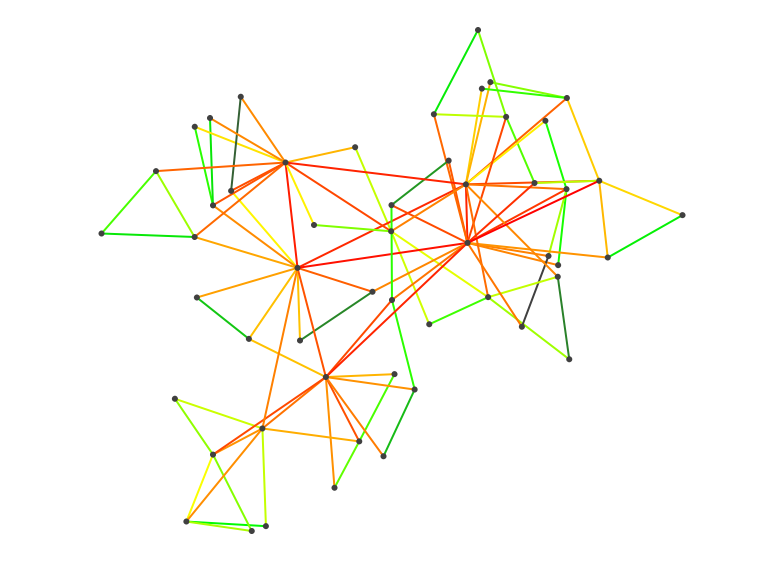
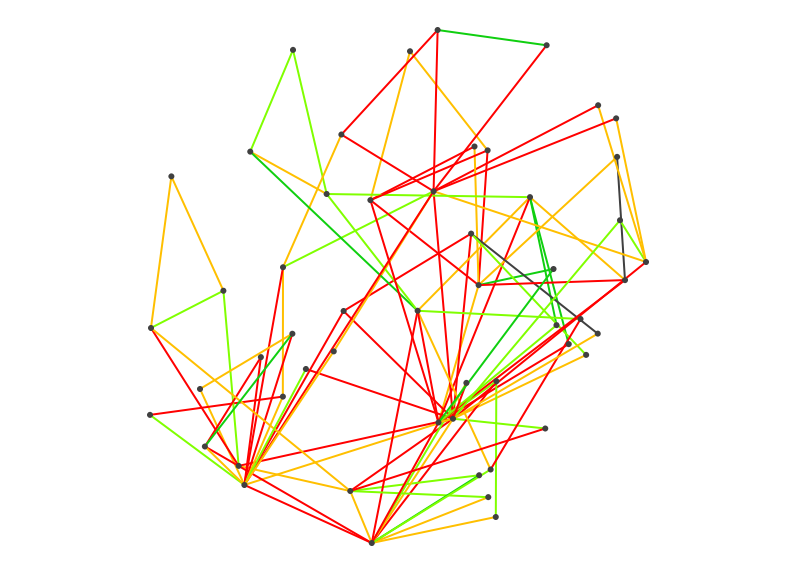
refactor

Changed region(s): [[0.1224, 0.0303, 0.8878, 0.9697]]

diff --git a/src/main/java/ReseauSocial.java b/src/main/java/ReseauSocial.java
@@ -1,20 +1,37 @@
-import com.sun.corba.se.impl.orbutil.graph.Graph;
 import org.graphstream.algorithm.generator.DorogovtsevMendesGenerator;
 import org.graphstream.algorithm.generator.Generator;
 import org.graphstream.algorithm.randomWalk.RandomWalk;
 import org.graphstream.graph.Edge;
 import org.graphstream.graph.implementations.MultiGraph;
 
-public class GeneGraph{
-    public static void testRandomWalk() {
-        MultiGraph graph = new MultiGraph("random walk");
-        Generator gen   = new DorogovtsevMendesGenerator();
-        RandomWalk rwalk = new RandomWalk();
+public class ReseauSocial {
 
-        // On génère 400 noeuds
+    private MultiGraph graph;
+    private Generator gen;
+    private RandomWalk rwalk;
+    private static int nbNoeuds = 50;
+    protected static String styleSheet =
+            "edge {"+
+                "	size: 2px;"+
+                "	fill-color: red, yellow, green, #444;"+
+                "	fill-mode: dyn-plain;"+
+                "}"+
+            "node {"+
+                "	size: 6px;"+
+                "	fill-color: #444;"+
+            "}";
+
+    public ReseauSocial(MultiGraph graph, Generator gen, RandomWalk rwalk) {
+        this.graph = graph;
+        this.gen = gen;
+        this.rwalk = rwalk;
+    }
+
+    public void init() {
+        // On génère n noeuds
         gen.addSink(graph);
         gen.begin();
-        for(int i=0; i<50; i++) {
+        for(int i=0; i<nbNoeuds; i++) {
             gen.nextEvents();
         }
         gen.end();
@@ -23,33 +40,19 @@ public class GeneGraph{
         graph.addAttribute("ui.antialias");
         graph.display();
 
-        // We configure the random walk to use twice as
-        // much entities as nodes in the graph. To use
-        // a small evaporation on the number of passes
-        // per element and a last visited edge list of
-        // 40 elements.
+        //random edges using rwalk object
         rwalk.setEntityCount(graph.getNodeCount()*2);
         rwalk.setEvaporation(0.97);
         rwalk.setEntityMemory(40);
         rwalk.init(graph);
-
-        // Compute the walks for 3000 steps only as an
-        // example, but the test could run forever with
-        // a dynamic graph if needed.
-        for(int i=0; i<3000; i++) {
-            rwalk.compute();
-        }
+        rwalk.compute();
         rwalk.terminate();
 
-        // Only when finished we change the edges colors
-        // according to the number of passes. This call could
-        // be made inside the loop above to show the evolution
-        // of the entities passes.
+        // Update colors
         updateGraph(graph, rwalk);
 
         // We take a small screen-shot of the result.
         graph.addAttribute("ui.screenshot", "randomWalk.png");
-        //graph.display(); //test
     }
 
 
@@ -74,15 +77,4 @@ public class GeneGraph{
             edge.setAttribute("ui.color", color);
         }
     }
-
-    protected static String styleSheet =
-            "edge {"+
-                    "	size: 2px;"+
-                    "	fill-color: red, yellow, green, #444;"+
-                    "	fill-mode: dyn-plain;"+
-                    "}"+
-                    "node {"+
-                    "	size: 6px;"+
-                    "	fill-color: #444;"+
-                    "}";
 }

diff --git a/src/main/java/Main.java b/src/main/java/Main.java
@@ -1,0 +1,15 @@
+import org.graphstream.algorithm.generator.DorogovtsevMendesGenerator;
+import org.graphstream.algorithm.randomWalk.RandomWalk;
+import org.graphstream.graph.implementations.MultiGraph;
+
+public class Main {
+
+    public static void main(String args[]) {
+        ReseauSocial reseauSocial = new ReseauSocial(new MultiGraph("random walk"), new DorogovtsevMendesGenerator(), new RandomWalk());
+        reseauSocial.init();
+    }
+
+
+}
+
+
